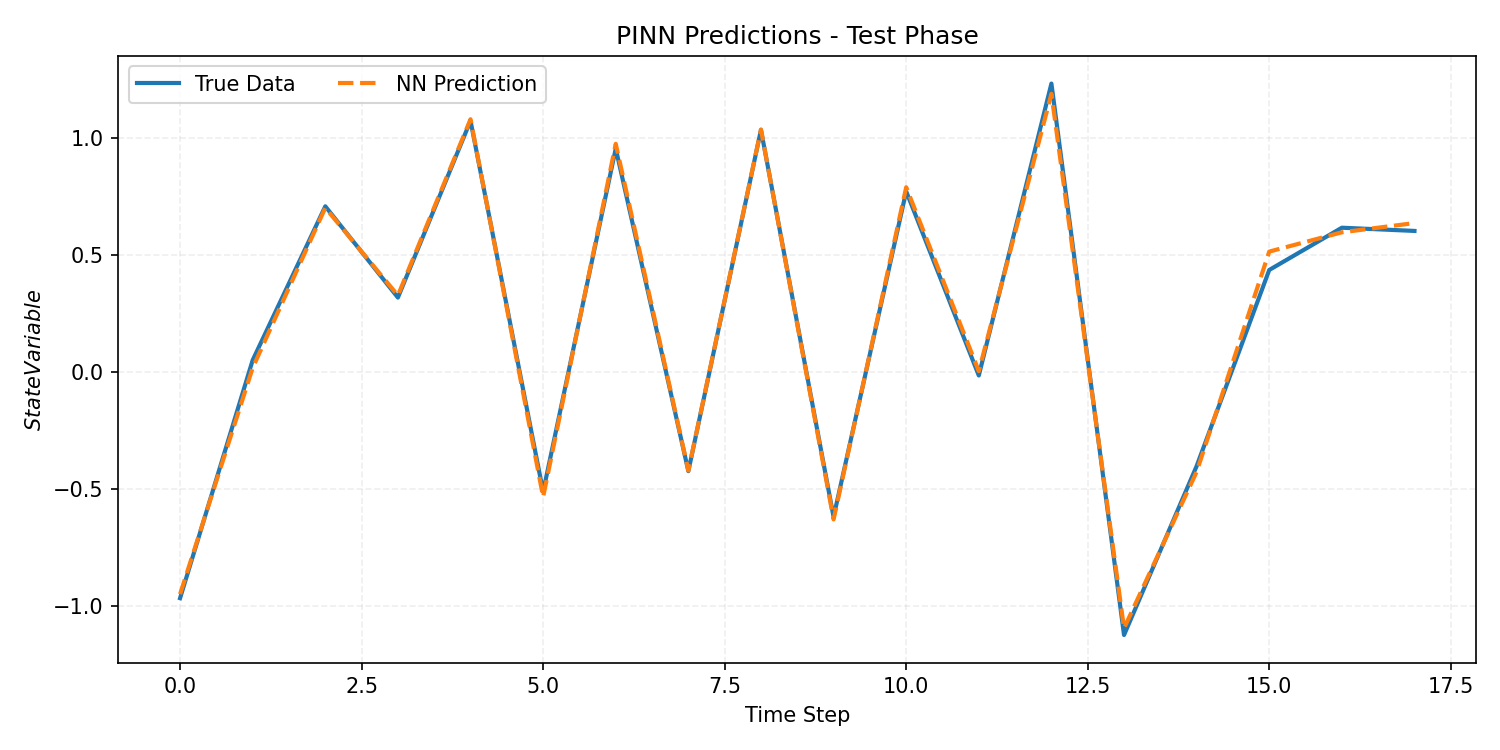
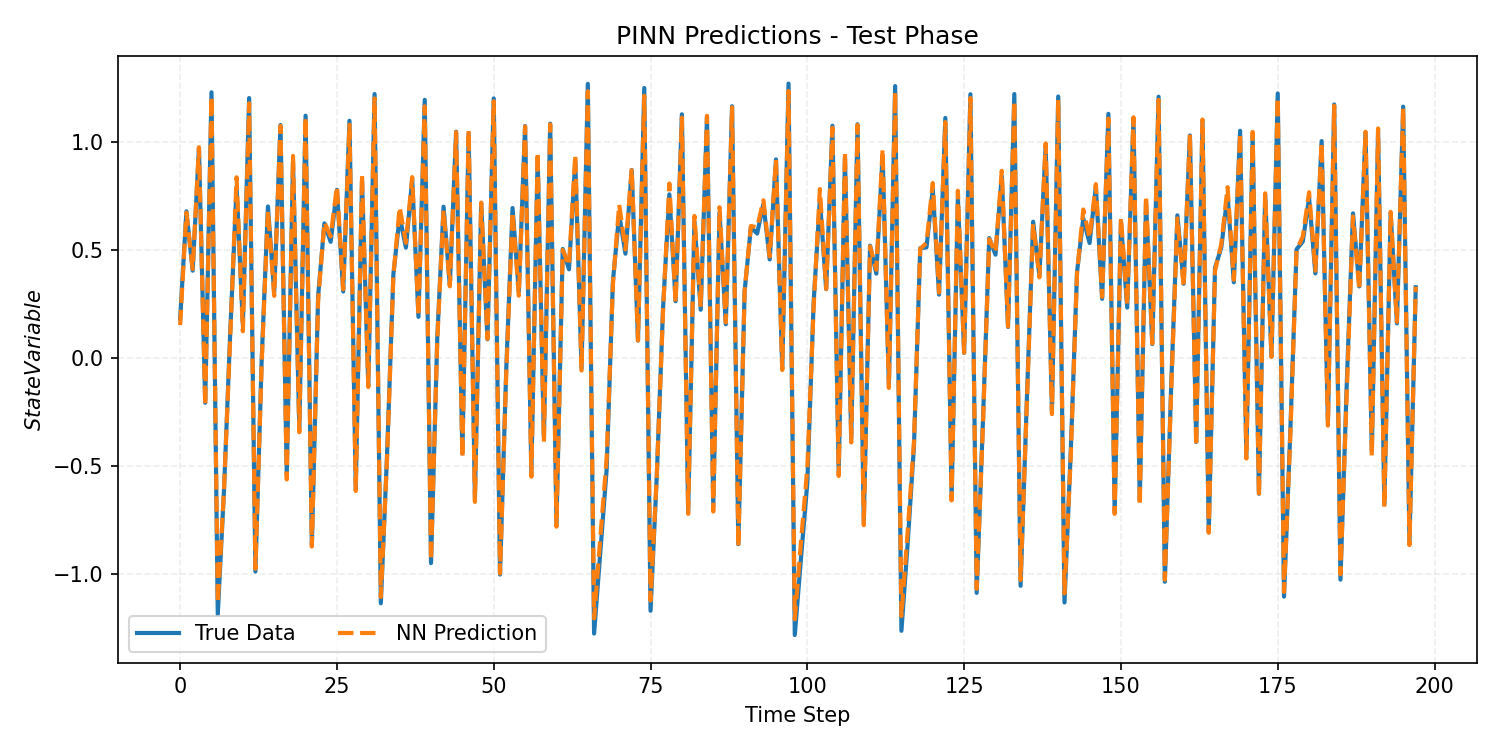
more exp

diff --git a/discrete_pinn/train_model.py b/discrete_pinn/train_model.py
@@ -21,7 +21,7 @@ def evaluate(model, criterion, data):
     return loss.item(), x_next_pred
 
 
-def plot_predictions(pred_data,true_data, save_filename="output_dir/pinn_predictions.png"):
+def plot_predictions(param_hist, pred_data,true_data, save_filename="output_dir/pinn_predictions.png"):
 
     if not (Path(save_filename)):
         print(f"Error: The path '{save_filename}' does not exist.")
@@ -30,6 +30,8 @@ def plot_predictions(pred_data,true_data, save_filename="output_dir/pinn_predict
     # Convert PyTorch tensors to NumPy arrays for Matplotlib
     pred_data = pred_data.squeeze().detach().cpu().numpy()
     true_data = true_data.squeeze().detach().cpu().numpy()
+
+    #--------------------------------#
 
     plt.figure(figsize=(10, 5))
     plt.title("PINN Predictions - Test Phase")
@@ -56,6 +58,27 @@ def plot_predictions(pred_data,true_data, save_filename="output_dir/pinn_predict
     output_path = Path(save_filename)
     output_path.parent.mkdir(parents=True, exist_ok=True)
     plt.savefig(output_path, dpi=150)
+
+    #--------------------------------#
+    fig,ax = plt.subplots(2,1, figsize=(9, 6))
+    ax[0].plot(param_hist["a"], label="Learned $a$", color="tab:blue", lw=2)
+    ax[0].axhline(y=1.4, color="tab:blue", linestyle="--", alpha=0.7, label="True $a$ (1.4)")
+    ax[0].set_title("PINN Parameter $a$ and $b$ Convergence")
+    ax[0].set_ylabel("Parameter $a$")
+    ax[0].grid(True, linestyle="--", alpha=0.3)
+
+    ax[1].plot(param_hist["b"], label="Learned $b$", color="tab:blue", lw=2)
+    ax[1].axhline(y=0.3, color="tab:blue", linestyle="--", alpha=0.7, label="True $a$ (1.4)")
+    ax[1].set_title("PINN Parameter $b$ Convergence")
+    ax[1].set_xlabel("Training Epoch ($\times 10$)")
+    ax[1].set_ylabel("Parameter $b$")
+    ax[1].grid(True, linestyle="--", alpha=0.3)
+
+
+
+    output_path = Path(save_filename)
+    plt.savefig(output_path.parent / "system parameter.png", dpi=150)
+    plt.close()
     
     # Optional: Display the plot in the window before closing
     plt.show() 
@@ -85,6 +108,8 @@ def train(map_func : str):
         case "henon_map":
             map_data = MapFunction()
             henon_trajectory, timestep = map_data.run_trajectory("henon_map")
+            print(f"Henon_full data:")
+            print(f"{henon_trajectory[:5]}")
             model = HenonPINN(n_hidden= 8, a_init=0.9 , b_init=0.7)
 
 
@@ -95,7 +120,9 @@ def train(map_func : str):
             x_state_target = torch.tensor(x_state_target, dtype=torch.float32).unsqueeze(1)  # [N, 1] -> x_{n+1}
 
             split_idx = int(len(henon_trajectory) * 0.8)
-            x_curr_train = x_state_input[:split_idx]
+            x_curr_train = x_state_input[:split_idx]  # [N, 2] -> (x_n, x_{n-1})
+            print(f"X_input for training :")    
+            print(f"{x_curr_train[:5]}")              # [N, 1] -> x_{n+1}
             x_curr_test = x_state_input[split_idx:]
 
             x_next_true_train = x_state_target[:split_idx]
@@ -114,12 +141,14 @@ def train(map_func : str):
     
     epochs = 1000
     pbar = tqdm(range(epochs), desc=f"Training {map_func}PINN")
+
+    param_history = {"a": [], "b": []}
     
     for epoch in pbar:
         model.train()
         
-        # Forward pass: predict x_{n+1} from x_n
-        x_next_pred = model(x_curr_train)
+        # Forward pass: predict x_{n+1} from x_n, x_{n-1}
+        x_next_pred = model(x_curr_train) 
         
         # Compute combined loss
         total_loss = criterion( model, x_next_pred, x_next_true_train,x_curr_train,calc_physics=True)
@@ -129,7 +158,12 @@ def train(map_func : str):
         total_loss.backward()
         optimizer.step()
         
-        if epoch % 100 == 0:
+        if epoch % 10 == 0:
+
+           
+            for name, param in model.named_parameters():
+                if name in ["a", "b"]:
+                    param_history[name].append(param.item())
             
             postfix_dict = {"Loss": f"{total_loss.item():.5f}"}
             
@@ -143,7 +177,7 @@ def train(map_func : str):
         
 
     test_loss, x_next_pred = evaluate(model, criterion, test_data)
-    plot_predictions(x_next_pred,x_next_true_test)
+    plot_predictions(param_history,x_next_pred,x_next_true_test)
     print(f"Test loss: {test_loss:.5f}")
     print("Discovered Parameters:")
     for name, param in model.named_parameters():

diff --git a/discrete_pinn/data_creation.py b/discrete_pinn/data_creation.py
@@ -22,7 +22,7 @@ class MapFunction:
     def henon_map (self, state_x, state_y,a,b):
          return 1-a*state_x**2 + state_y, b*state_x
 
-    def run_trajectory(self, map_function, transient_step= 500, steady_step=100):
+    def run_trajectory(self, map_function, transient_step= 300, steady_step=1000):
         """
         Argument : map_function (ex: logistic_map)
 
@@ -33,6 +33,11 @@ class MapFunction:
           """
 
         if map_function == "logistic_map":
+            """
+            Return:
+            (N,1) -> (x_state)
+    
+            """
 
             state_x = 0.2
             self.alpha = 3.99
@@ -50,6 +55,11 @@ class MapFunction:
             return self.trajectory, np.arange(0,steady_step,1)
 
         if map_function == "henon_map":
+            """
+            Return:
+            (N,2) -> (x_state , y_state)
+
+            """
 
             state_x = 0.1
             state_y = 0.1

diff --git a/discrete_pinn/data_setup.py b/discrete_pinn/data_setup.py
@@ -3,7 +3,8 @@ import numpy as np
 
 def create_delay_embedding(data, delay = 1):
     """
-    Given 1D tensor x_series of shape (L, 1):
+    Given 1D numpy array x_series of shape (L, 1):
+
     Returns:
       x_input:  shape (L-2, 2) containing [x_n, x_{n-1}]
       x_target: shape (L-2, 1) containing x_{n+1}

diff --git a/discrete_pinn/model.py b/discrete_pinn/model.py
@@ -63,6 +63,7 @@ class HenonPINN(PINN):
         x_next_pred = next_state_pred
 
        # 1D Delay Embedding Residual: x_{n+1} - (1 - a * x_n^2 + b * x_{n-1}) = 0
+       # Uses true data of x_n and x_{n-1}
         eq_res = x_next_pred - (1.0 - self.a * (x_n**2) + self.b * x_prev)
       
         return eq_res
